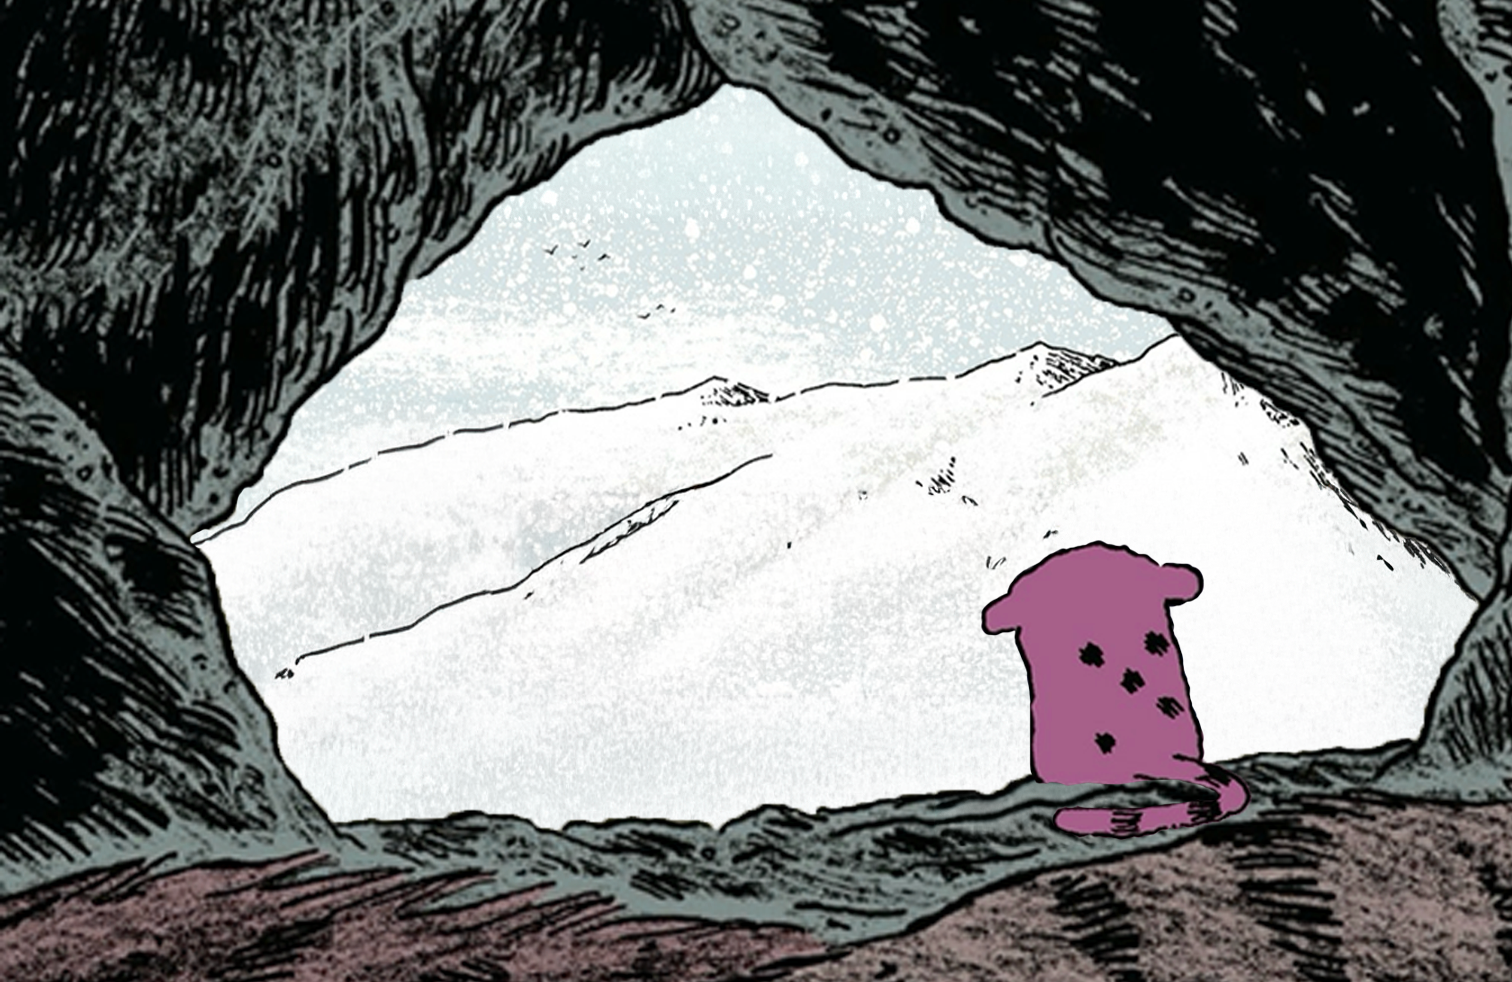
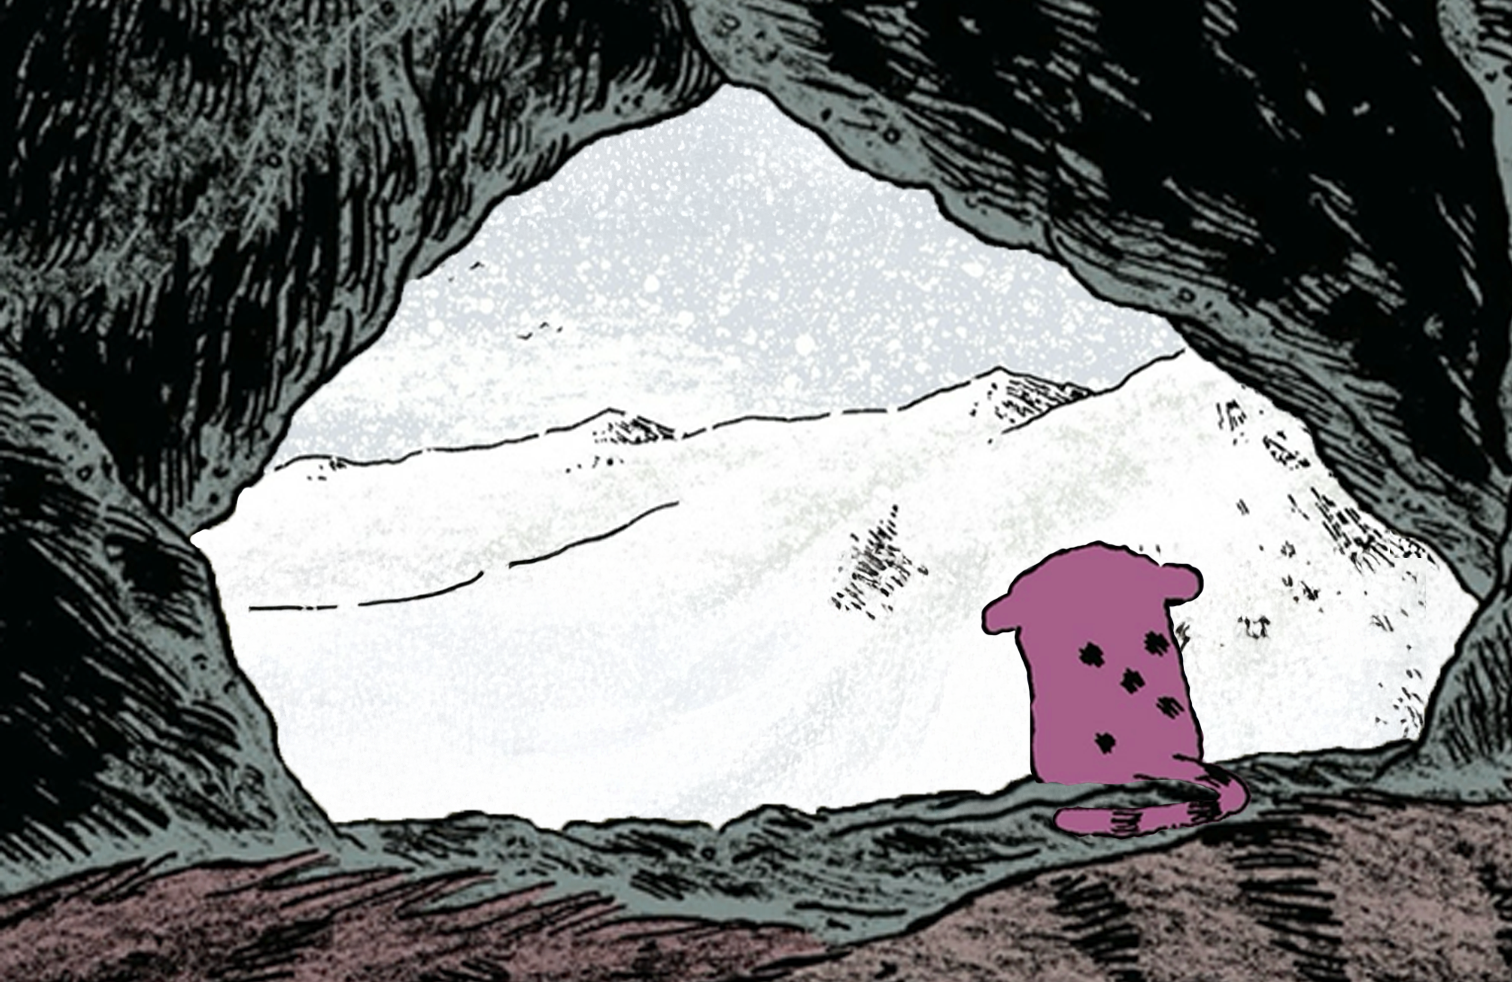
fin de matinée 20.11

diff --git a/src/index.html b/src/index.html
@@ -3,6 +3,12 @@
   <head>
     <meta charset="utf-8" />
     <title>Sabre</title>
+    <meta property="og:title" content="Sabre" />
+    <meta
+      property="og:description"
+      content="Entre dans le récit d’une petite tigresse à dents de sabre évoluant dans son univers."
+    />
+    <meta property="og:/src/img/sabre-home" content="sabre-home.png" />
     <meta name="viewport" content="width=device-width, initial-scale=1.0" />
     <link rel="stylesheet" href="scss/main.scss" />
     <link rel="preconnect" href="https://fonts.googleapis.com" />
@@ -77,9 +83,16 @@
           </div>
         </div>
         <div class="corpse">
-          <div class="time"><img src="img/cadavre.png" alt="cadavre" /></div>
-          <div class="autumn"><img src="img/automne.png" alt="cadavre" /></div>
-          <div class="winter"><img src="img/hiver.png" alt="cadavre" /></div>
+          <div class="time"><img src="img/cadavre.png" alt="time" /></div>
+          <div class="autumn"><img src="img/automne.png" alt="autumn" /></div>
+          <div class="winter">
+            <img
+              src="img/montagnes-hiver.png"
+              class="image-winter"
+              alt="cadavre"
+            />
+            <img src="img/contour-grotte.png" class="image-cave" alt="grotte" />
+          </div>
         </div>
       </div>
     </div>

diff --git a/src/js/main.js b/src/js/main.js
@@ -120,7 +120,7 @@ tl.to(".screens-stroll", {
 tl.to(
   ".screens-stroll",
   {
-    y: "-140%",
+    y: "-136%",
     duration: 8,
   },
   "corpse-down"
@@ -138,3 +138,6 @@ tl.fromTo(
 );
 
 tl.fromTo(".winter", { opacity: 0 }, { opacity: 1, duration: 3 });
+tl.addLabel("winter-scroll");
+tl.to(".image-cave", { scale: 3.5, duration: 3 }, "winter-scroll");
+tl.to(".image-winter", { scale: 1.3, duration: 1 }, "winter-scroll");

diff --git a/src/scss/modules/_corpse.scss b/src/scss/modules/_corpse.scss
@@ -21,8 +21,16 @@
 .corpse .winter {
   position: absolute;
   width: 100%;
+  height: 100vh;
   bottom: 0;
   left: 0;
   opacity: 0;
   z-index: 2;
+}
+
+.corpse .winter img {
+  position: absolute;
+  width: 100%;
+  bottom: 0;
+  left: 0;
 }

diff --git a/src/scss/modules/_tigers.scss b/src/scss/modules/_tigers.scss
@@ -5,8 +5,9 @@
 }
 
 .tigers .sky {
+  overflow: hidden;
   position: relative;
-  width: 80vh;
+  width: 100%;
   height: 100vh;
   background-image: url(/src/img/ciel.png);
 }

diff --git a/src/scss/modules/_footer.scss b/src/scss/modules/_footer.scss
@@ -2,6 +2,7 @@ footer {
   height: 300%;
   width: 100vw;
   flex-shrink: 0;
+  margin-top: -570px;
 }
 
 footer img {
